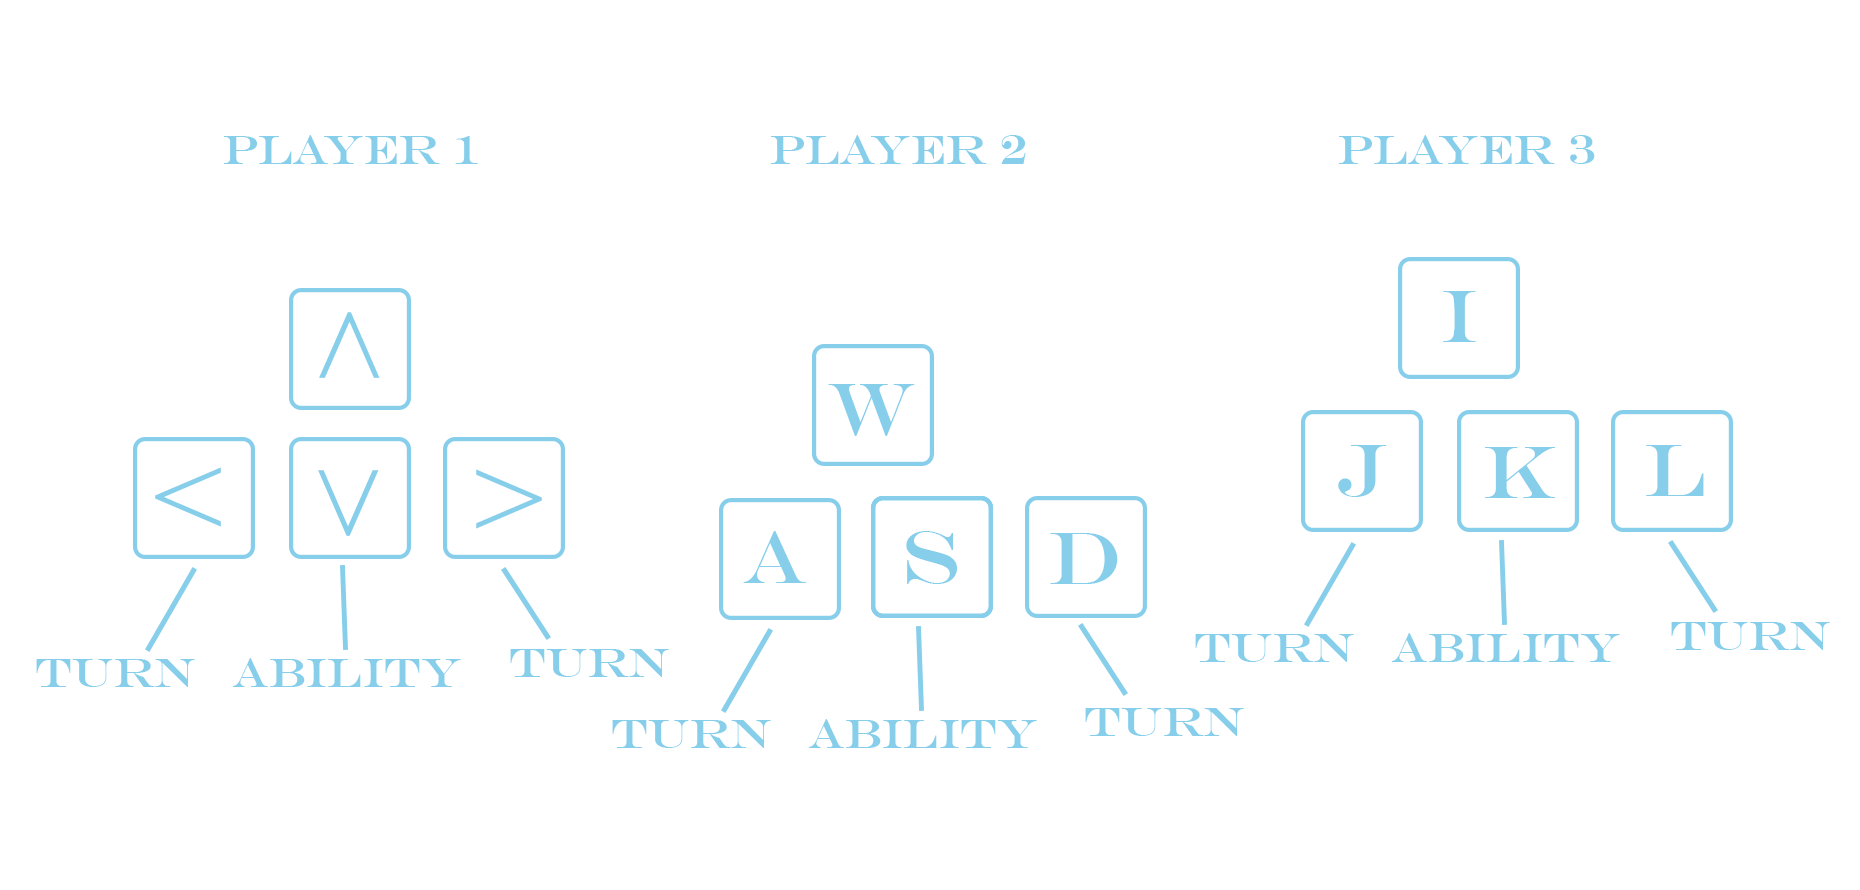
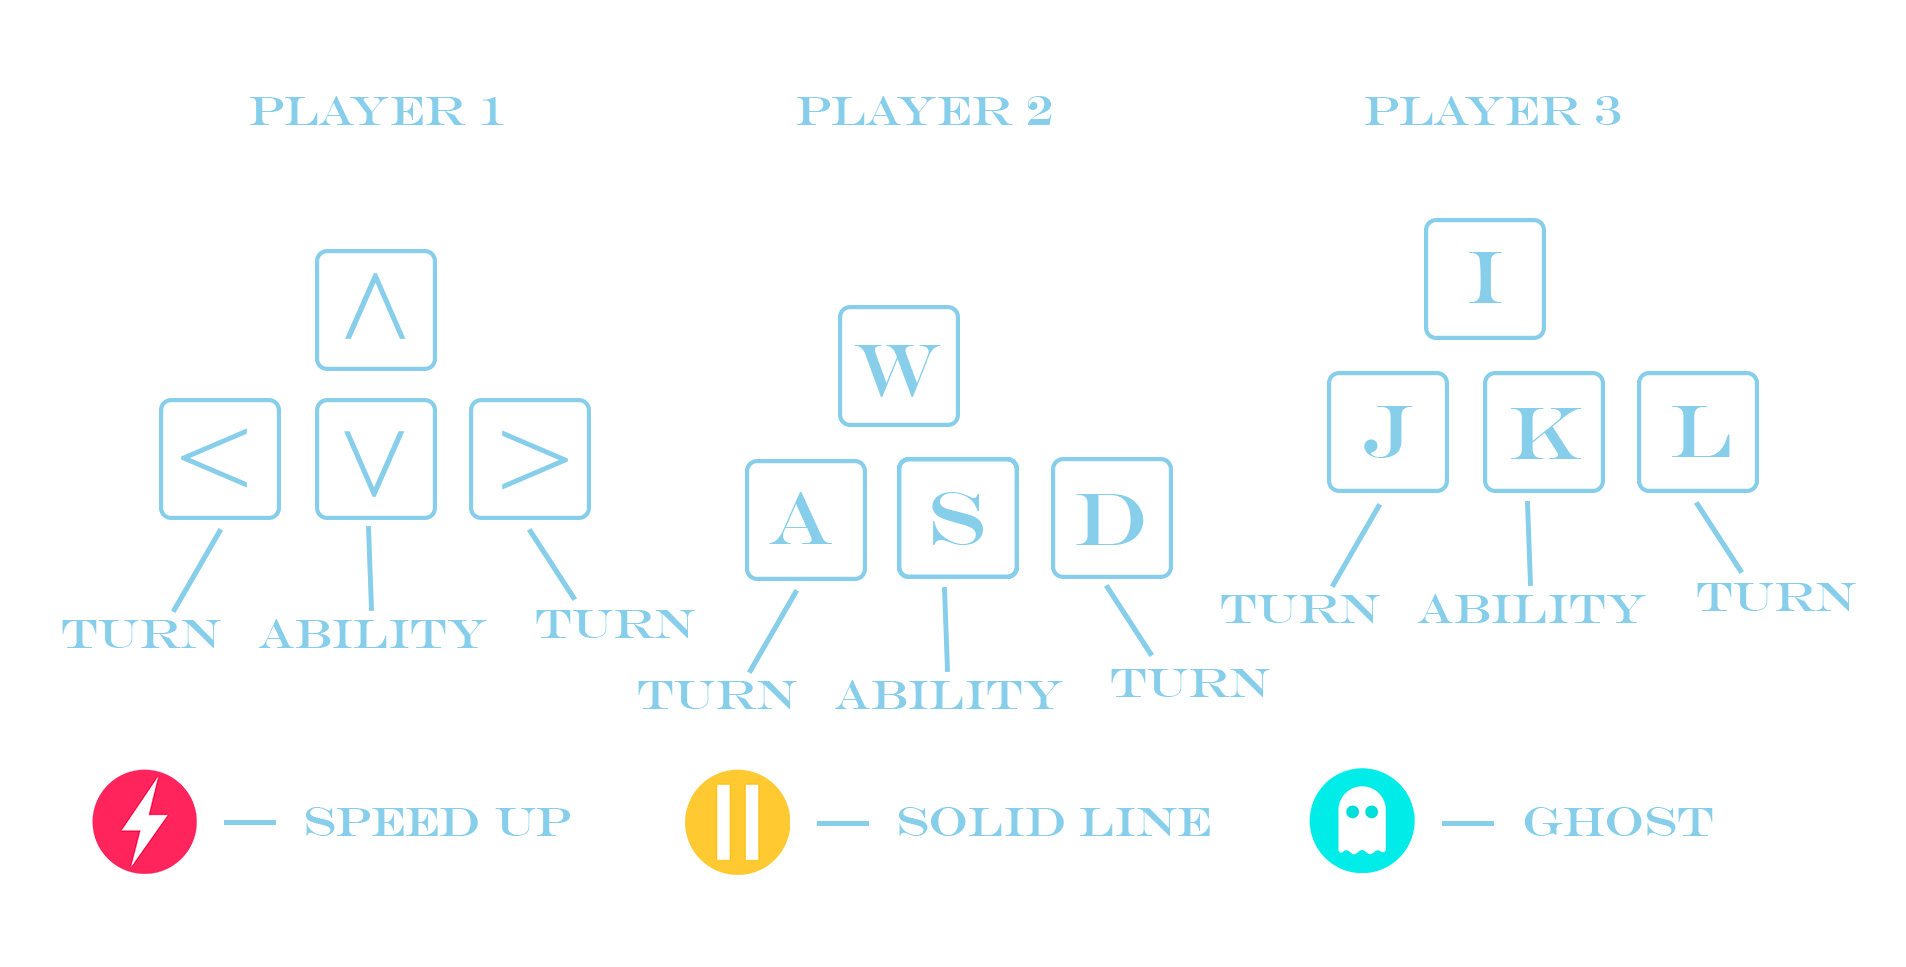
sound pause/pla button added and controls updated

diff --git a/Z Lab(TronOnDrugs)/MainMenu.xaml b/Z Lab(TronOnDrugs)/MainMenu.xaml
@@ -23,6 +23,9 @@
             <Button Grid.Row="1" Content="PLAY" HorizontalAlignment="Center" VerticalAlignment="Center" FontWeight="Bold" FontSize="30" Padding="10" Margin="10" Background="Transparent" Foreground="SkyBlue" BorderBrush="SkyBlue" BorderThickness="1" Click="Play_Button_Click" Width="350"/>
             <Button Grid.Row="2" Content="CONTROLS" HorizontalAlignment="Center" VerticalAlignment="Center" Background="Transparent" Foreground="SkyBlue" BorderBrush="SkyBlue" BorderThickness="1" FontWeight="Bold" FontSize="30" Padding="10" Margin="10" Width="350" HorizontalContentAlignment="Center" Click="Controls_Button_Click"/>
             <Button Grid.Row="3" Content="EXIT" HorizontalAlignment="Center" VerticalAlignment="Center" Background="Transparent" Foreground="SkyBlue" FontWeight="Bold" FontSize="30" Padding="10" Margin="10" BorderBrush="SkyBlue" BorderThickness="1" Click="Exit_Button_Click" Width="350"/>
+            <Button Grid.Row="3" Margin="10" Padding="9" HorizontalAlignment="Right" VerticalAlignment="Bottom" Width="50" Height="50" Background="Transparent" BorderBrush="SkyBlue" BorderThickness="1" Click="Sound_Button_Click">
+                <Image Source="\Images\soundcontrol.png"/>
+            </Button>
         </Grid>
     </Border>
 </Window>

diff --git a/Z Lab(TronOnDrugs)/ControlsWindow.xaml b/Z Lab(TronOnDrugs)/ControlsWindow.xaml
@@ -21,7 +21,7 @@
             <Label Grid.Row="0" Content="CONTROLS" HorizontalAlignment="Stretch" HorizontalContentAlignment="Center" VerticalAlignment="Bottom" FontSize="70" FontWeight="Bold" Foreground="SkyBlue"/>
             <Grid Grid.Row="1">
                 <Grid.Background>
-                    <ImageBrush ImageSource="\Images\controls.png"/>
+                    <ImageBrush Stretch="Uniform" ImageSource="\Images\controls.png"/>
                 </Grid.Background>
             </Grid>
             <Button Grid.Row="2" Content="BACK" HorizontalAlignment="Center" VerticalAlignment="Center" Foreground="SkyBlue" Background="Transparent" FontWeight="Bold" FontSize="30" Padding="10" Margin="10" BorderBrush="SkyBlue" BorderThickness="1"  Click="Back_Button_Click" Width="350"/>

diff --git a/Z Lab(TronOnDrugs)/MainMenu.xaml.cs b/Z Lab(TronOnDrugs)/MainMenu.xaml.cs
@@ -20,6 +20,8 @@ namespace Z_Lab_TronOnDrugs_
     /// </summary>
     public partial class MainMenu : Window
     {
+        bool isOn = true;
+        SoundPlayer player;
         public MainMenu()
         {
             InitializeComponent();
@@ -49,8 +51,22 @@ namespace Z_Lab_TronOnDrugs_
 
         private void Window_Loaded(object sender, RoutedEventArgs e)
         {
-            SoundPlayer player = new SoundPlayer(Properties.Resources.music);
+            player = new SoundPlayer(Properties.Resources.music);
             player.PlayLooping();
+        }
+
+        private void Sound_Button_Click(object sender, RoutedEventArgs e)
+        {
+            if (isOn == true)
+            {
+                player.Stop();
+                isOn = false;
+            }
+            else if (isOn == false)
+            {
+                player.PlayLooping();
+                isOn = true;
+            }
         }
     }
 }
